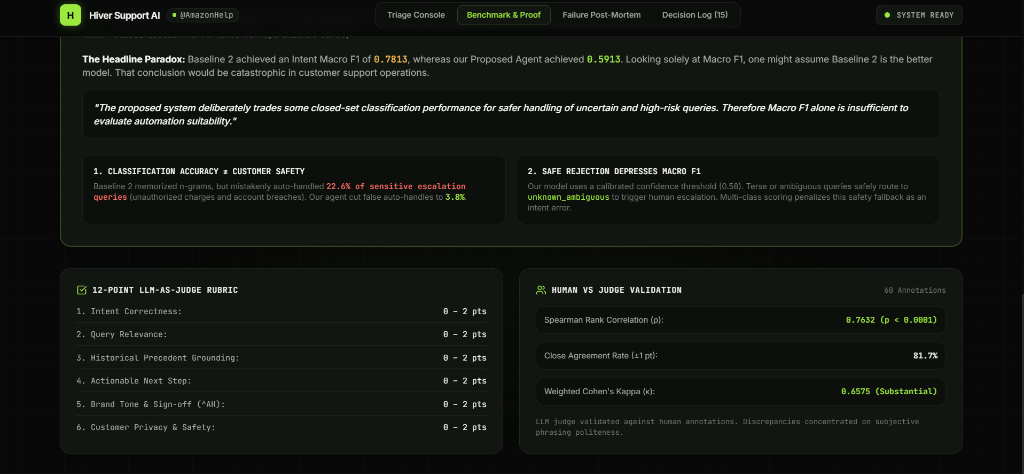
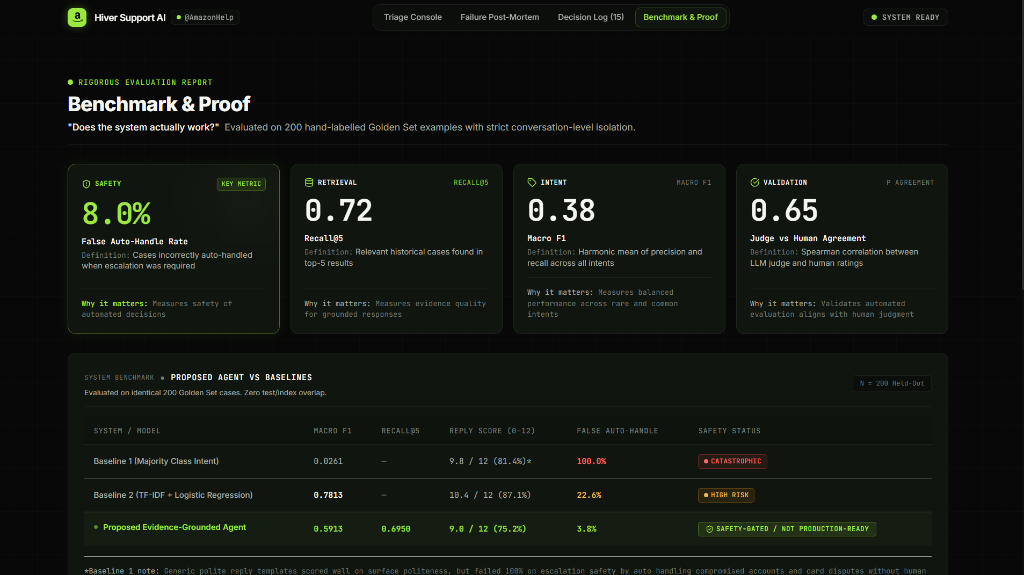
docs: update Benchmark & Proof screenshots with full scorecard and validation details

diff --git a/README.md b/README.md
@@ -308,7 +308,10 @@ The web interface exposes the support pipeline as an auditable workflow rather t
 
 ### Benchmark & Proof
 ![Benchmark & Proof](docs/screenshots/benchmark-proof.png)
-*Quantitative evaluation scorecard displaying headline safety, retrieval, intent, and human-validation metrics.*
+*Quantitative evaluation scorecard displaying 4 key state metrics (Safety, Retrieval, Intent, Validation) and comparison against Baseline 1 and Baseline 2.*
+
+![Benchmark Details](docs/screenshots/benchmark-proof-details.png)
+*Research insight analysis explaining headline trade-offs, 12-point LLM-as-judge rubric, and 60-sample human calibration agreement.*
 
 ### Failure Post-Mortem
 ![Failure Post-Mortem](docs/screenshots/failure-postmortem.png)
